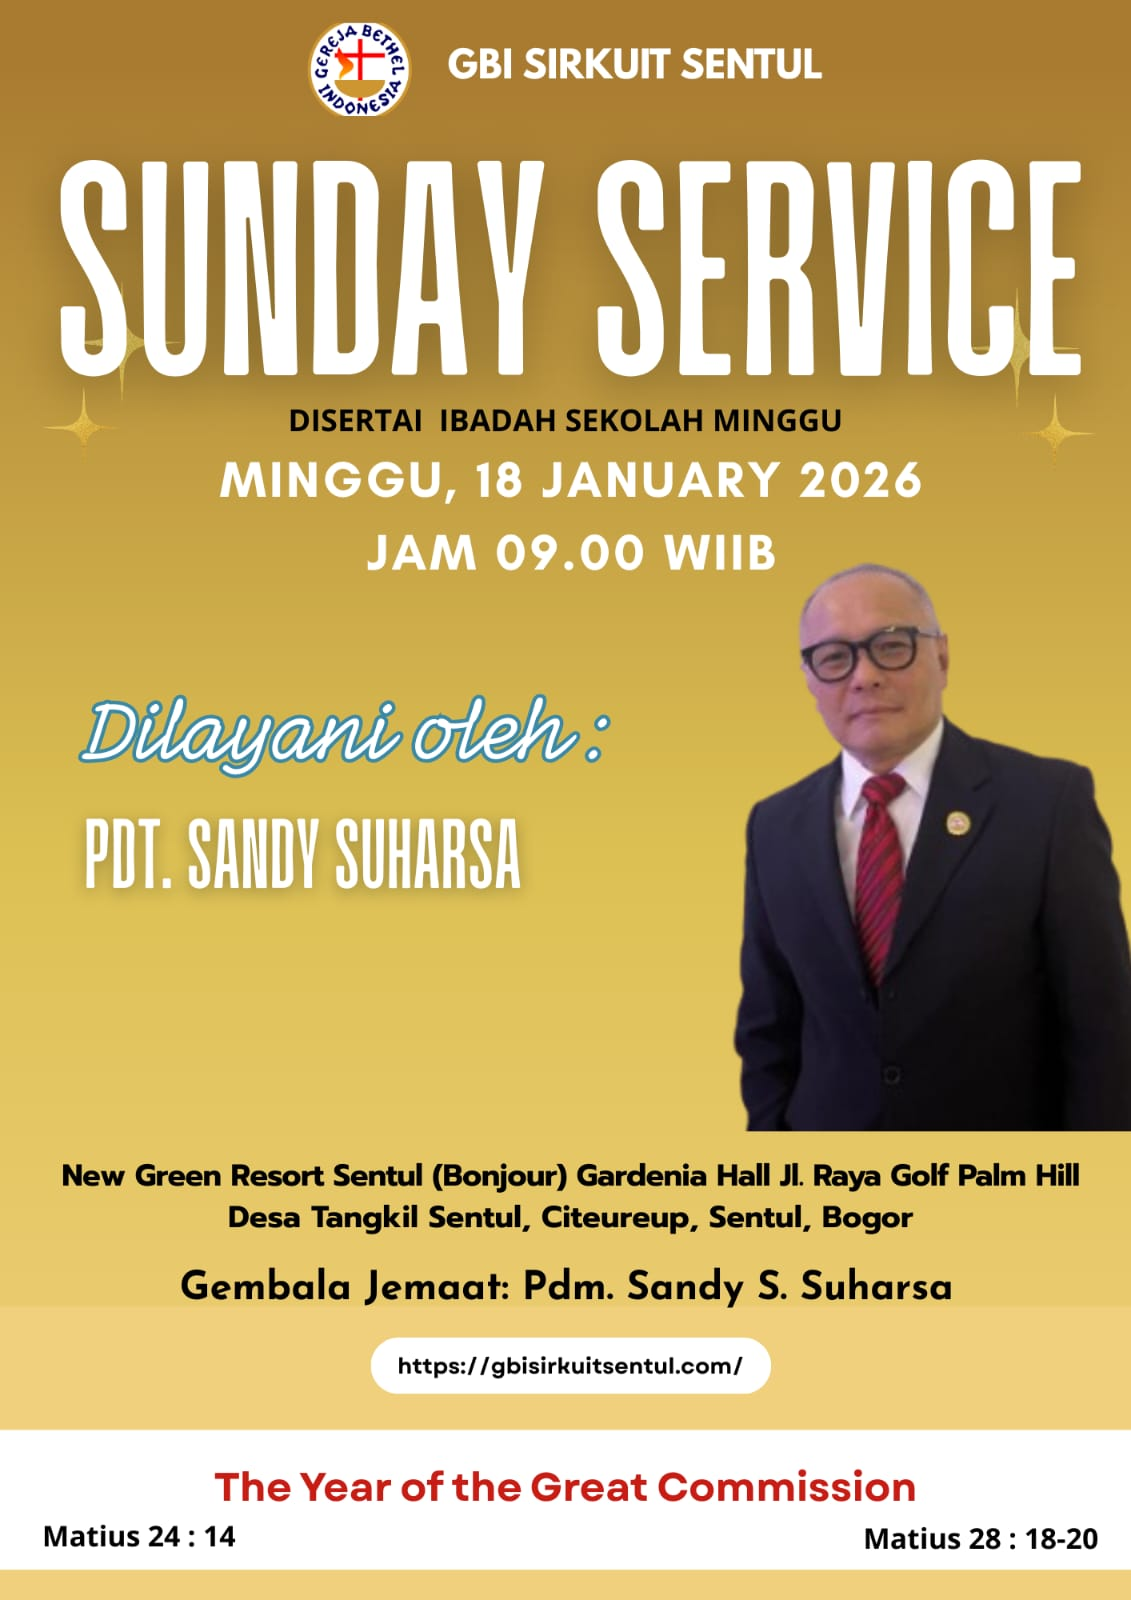
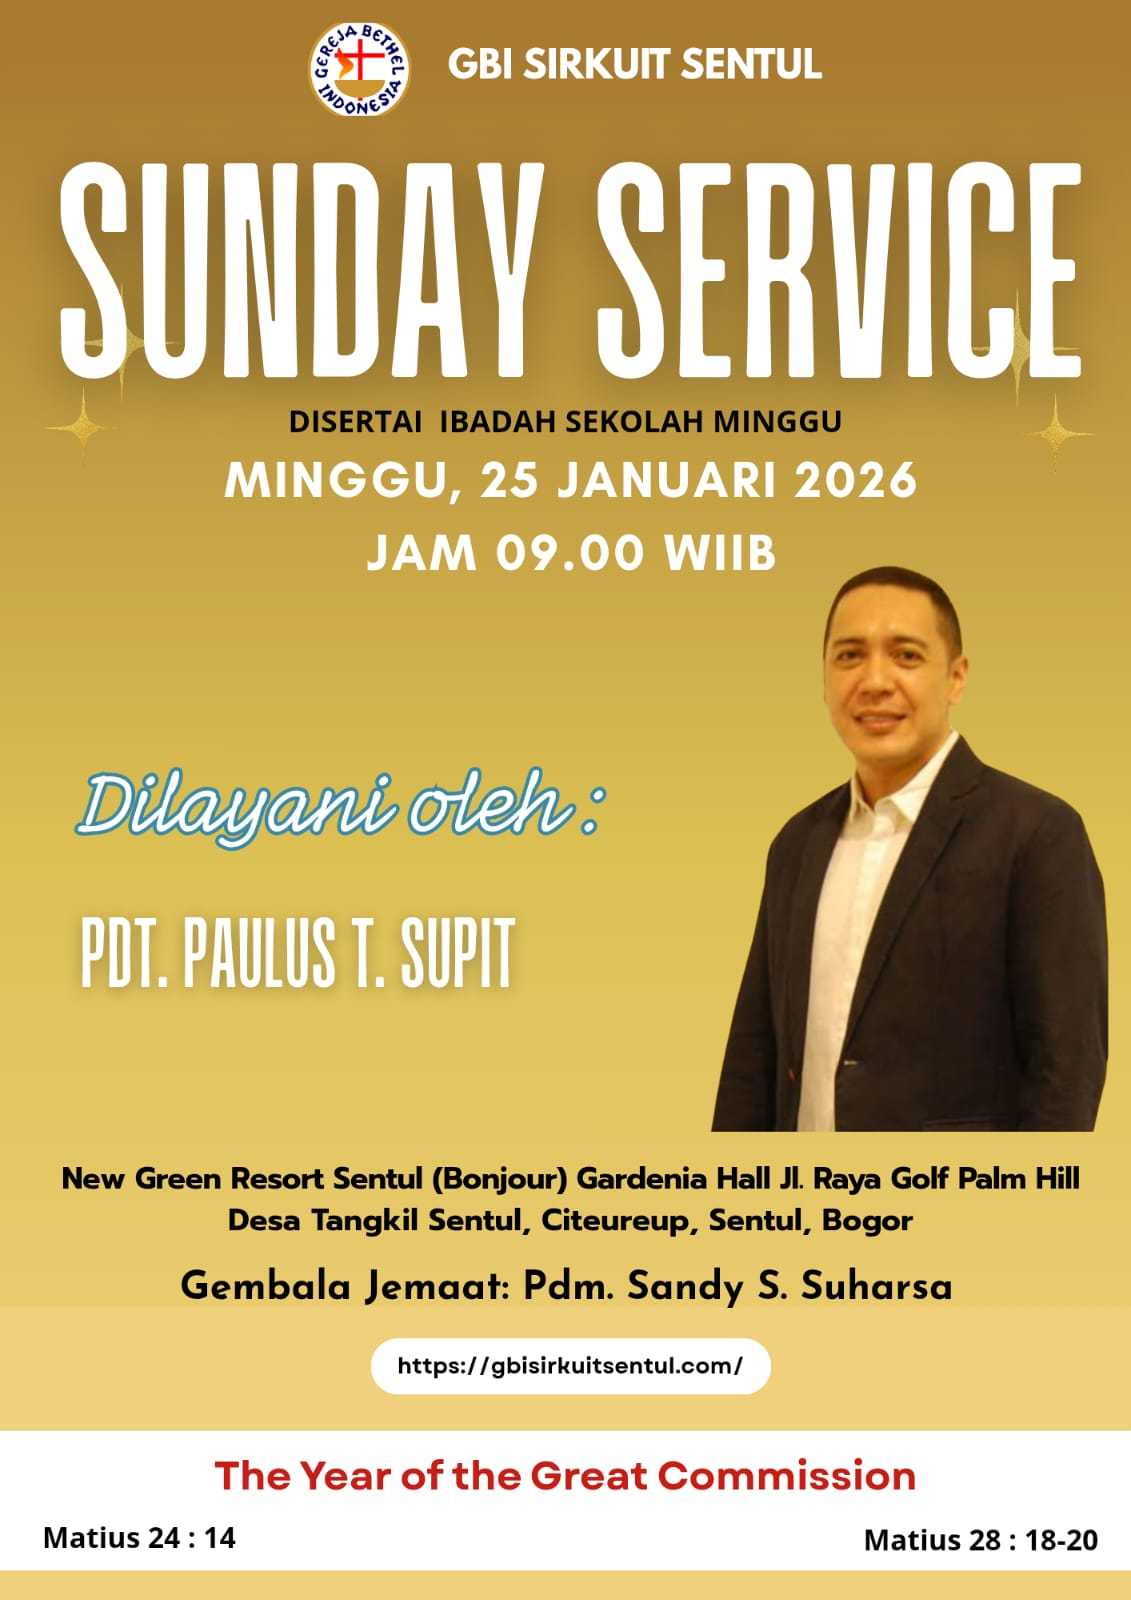
update foto

diff --git a/src/pages/PastorProfile.tsx b/src/pages/PastorProfile.tsx
@@ -7,7 +7,9 @@ export default function PastorProfile() {
   const images = [
     "/papi-mami.jpeg",
     "/papikeluarga.jpeg",
-    "/papi-mami3.jpeg" // ubah nama file sesuai di folder public kamu
+    "/papi-mami3.jpeg",
+    "/papi4.jpeg",
+    "papi5.jpeg" // ubah nama file sesuai di folder public kamu
   ];
 
   // Ganti foto otomatis setiap 4 detik
